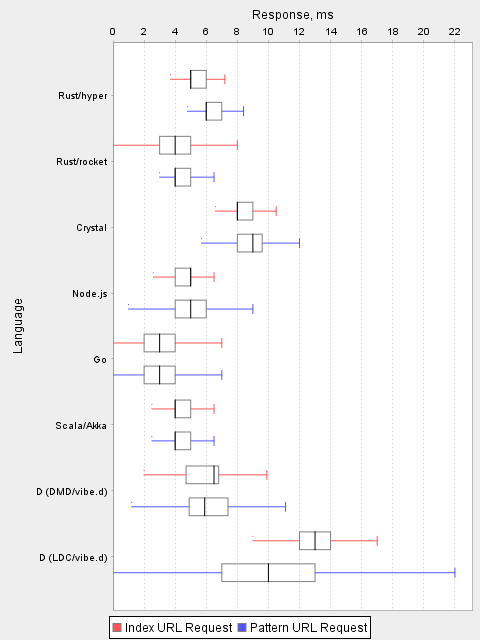
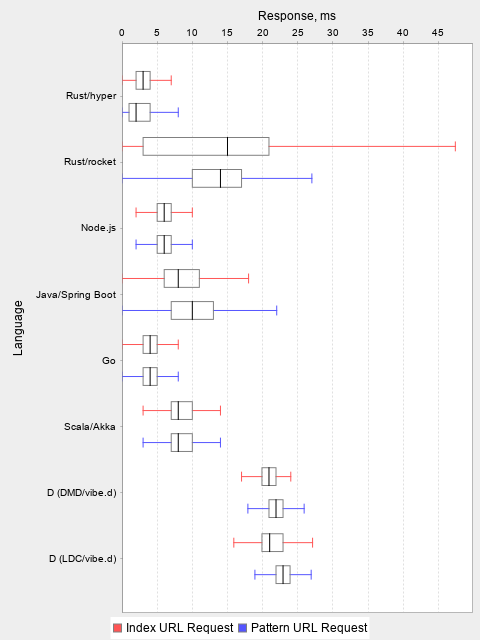
Windows results have been updated.

diff --git a/nodejs/main.js b/nodejs/main.js
@@ -1,6 +1,7 @@
 "use strict";
 const cluster = require('cluster');
 const http = require('http');
+const fs = require('fs');
 const numCPUs = require('os').cpus().length;
 
 var greetingRe = new RegExp("^\/greeting\/([a-z]+)$", "i");
@@ -15,7 +16,9 @@ process.argv.forEach((val, index) => {
 });
 
 if (cluster.isMaster) {
-  console.log(`Master ${process.pid} is running on port ${port}`);
+  const pid = process.pid;
+  fs.writeFileSync(".pid", pid);
+  console.log(`Master ${pid} is running on port ${port}`);
 
   // Fork workers.
   for (let i = 0; i < numCPUs; i++) {

diff --git a/java/src/main/java/com/example/demo/SampleController.java b/java/src/main/java/com/example/demo/SampleController.java
@@ -4,6 +4,8 @@ import org.springframework.boot.*;
 import org.springframework.boot.autoconfigure.*;
 import org.springframework.stereotype.*;
 import org.springframework.web.bind.annotation.*;
+import jnr.posix.*;
+import java.io.*;
 
 @Controller
 @EnableAutoConfiguration
@@ -22,6 +24,12 @@ public class SampleController {
     }
 
     public static void main(String[] args) throws Exception {
+        final POSIX posix = POSIXFactory.getPOSIX();
+        final String pid = String.valueOf(posix.getpid());
+        try (BufferedWriter writer = new BufferedWriter(new FileWriter(".pid"))) {
+            writer.write(pid);
+        }
+        System.out.println("Master " + pid + " is running");
         SpringApplication.run(SampleController.class, args);
     }
 }

diff --git a/rust/hyper/src/main.rs b/rust/hyper/src/main.rs
@@ -9,6 +9,7 @@ use hyper::{Body, Request, Response, Server};
 use hyper::rt::Future;
 use hyper::service::service_fn_ok;
 use regex::Regex;
+use std::fs;
 
 fn hello_world(req: Request<Body>) -> Response<Body> {
     match req.uri().path() {
@@ -31,7 +32,9 @@ fn hello_world(req: Request<Body>) -> Response<Body> {
 }
 
 fn main() {
-    println!("Master {} is running", unsafe { libc::getpid() });
+    let pid = unsafe { libc::getpid() }.to_string();
+    fs::write(".pid", &pid).expect("Unable to read file");
+    println!("Master {} is running", pid);
     let addr = ([127, 0, 0, 1], 3000).into();
     let new_svc = || {
         // service_fn_ok converts our function into a `Service`

diff --git a/go/main.go b/go/main.go
@@ -3,6 +3,7 @@ package main
 import (
 	"flag"
 	"fmt"
+	"io/ioutil"
 	"log"
 	"net/http"
 	"os"
@@ -12,7 +13,9 @@ import (
 func main() {
 	port := flag.Int("port", 3000, "server port")
 	flag.Parse()
-	fmt.Printf("Master %d is running on port %d\n", os.Getpid(), *port)
+	pid := fmt.Sprintf("%d", os.Getpid())
+	ioutil.WriteFile(".pid", []byte(pid), 0644)
+	fmt.Printf("Master %s is running on port %d\n", pid, *port)
 	reg := regexp.MustCompile("^/greeting/([a-z]+)$")
 	host := fmt.Sprintf("127.0.0.1:%d", *port)
 	err := http.ListenAndServe(host, http.HandlerFunc(func(w http.ResponseWriter, r *http.Request) {

diff --git a/rust/rocket/src/main.rs b/rust/rocket/src/main.rs
@@ -8,6 +8,7 @@ use getopts::Options;
 use rocket::config::{Config, Environment};
 use rocket::http::RawStr;
 use std::env;
+use std::fs;
 
 #[get("/")]
 fn index() -> &'static str {
@@ -20,7 +21,9 @@ fn greeting(name: &RawStr) -> String {
 }
 
 fn main() {
-    println!("Master {} is running", unsafe { libc::getpid() });
+    let pid = unsafe { libc::getpid() }.to_string();
+    fs::write(".pid", &pid).expect("Unable to read file");
+    println!("Master {} is running", pid);
 
     let args: Vec<String> = env::args().collect();
     let mut opts = Options::new();

diff --git a/python/main.py b/python/main.py
@@ -36,7 +36,10 @@ class MyServer(BaseHTTPRequestHandler):
 
 
 myServer = HTTPServer((hostName, hostPort), MyServer)
-print("Master %d is running on port %d" % (os.getpid(), hostPort))
+pid = str(os.getpid())
+with open(".pid", "w") as pidFile:
+    pidFile.write(pid)
+print("Master %s is running on port %d" % (pid, hostPort))
 
 try:
     myServer.serve_forever()

diff --git a/php/swoole/main.php b/php/swoole/main.php
@@ -21,5 +21,6 @@ $http->on('request', function ($request, $response) use ($pattern) {
 
 $pid = getmypid();
 echo "Master $pid is running on port $port", PHP_EOL;
+file_put_contents(".pid", $pid);
 
 $http->start();

diff --git a/README.md b/README.md
@@ -17,23 +17,23 @@ LDC 1.7.0, Crystal 0.24.1, PHP 7.1.13.
 
 ### Windows 10
 
-OS: Microsoft Windows [Version 10.0.15063]
+OS: Microsoft Windows [Version 10.0.17763]
 
 Hardware: Dell XPS (CPU: 2.6 GHz Intel Core i7, Mem: 16 GB 2133 MHz DDR4)
 
-Software: Go 1.9.3, Rust 1.25.0-nightly, Scala 2.12.4, Node.js 9.4.0, DMD 2.078.1,
-LDC 1.7.0, Crystal 0.24.1 (under WSL).
+Software: Go 1.12.7, Rust 1.38.0-nightly, Scala 2.12.8, Node.js 12.6.0, DMD 2.087.0,
+LDC 1.16.0, Java (OpenJDK) 12.0.2.
 
 ![](suite/results/win.png?raw=true)
 
 ### WSL
 
-OS: 4.4.0-43-Microsoft GNU/Linux
+OS: Ubuntu 16.04.6 LTS
 
 Hardware: Dell XPS (CPU: 2.6 GHz Intel Core i7, Mem: 16 GB 2133 MHz DDR4)
 
-Software: Go 1.9.2, Rust 1.25.0-nightly, Scala 2.12.4, Node.js 9.4.0, DMD 2.078.1,
-LDC 1.7.0, Crystal 0.24.1, PHP 7.0.22.
+Software: Go 1.9.4, Rust 1.38.0-nightly, Scala 2.12.8, Node.js 9.11.2, DMD 2.087.0,
+LDC 1.7.0, Crystal 0.29.0, PHP 7.0.33, Java (OpenJDK) 1.8.0.
 
 ![](suite/results/wsl.png?raw=true)
 
